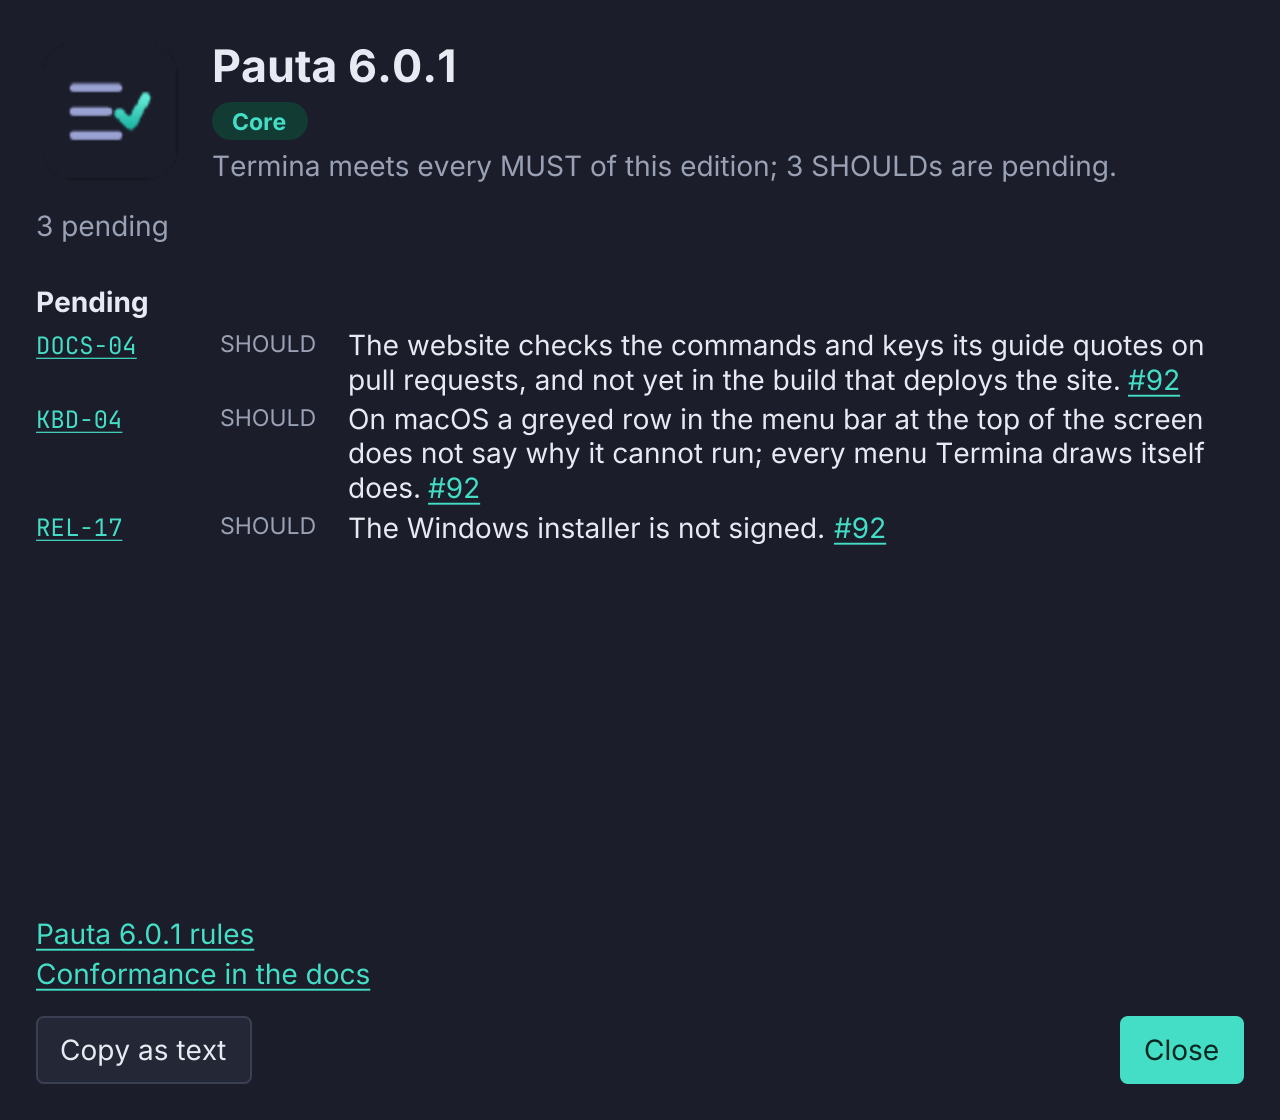
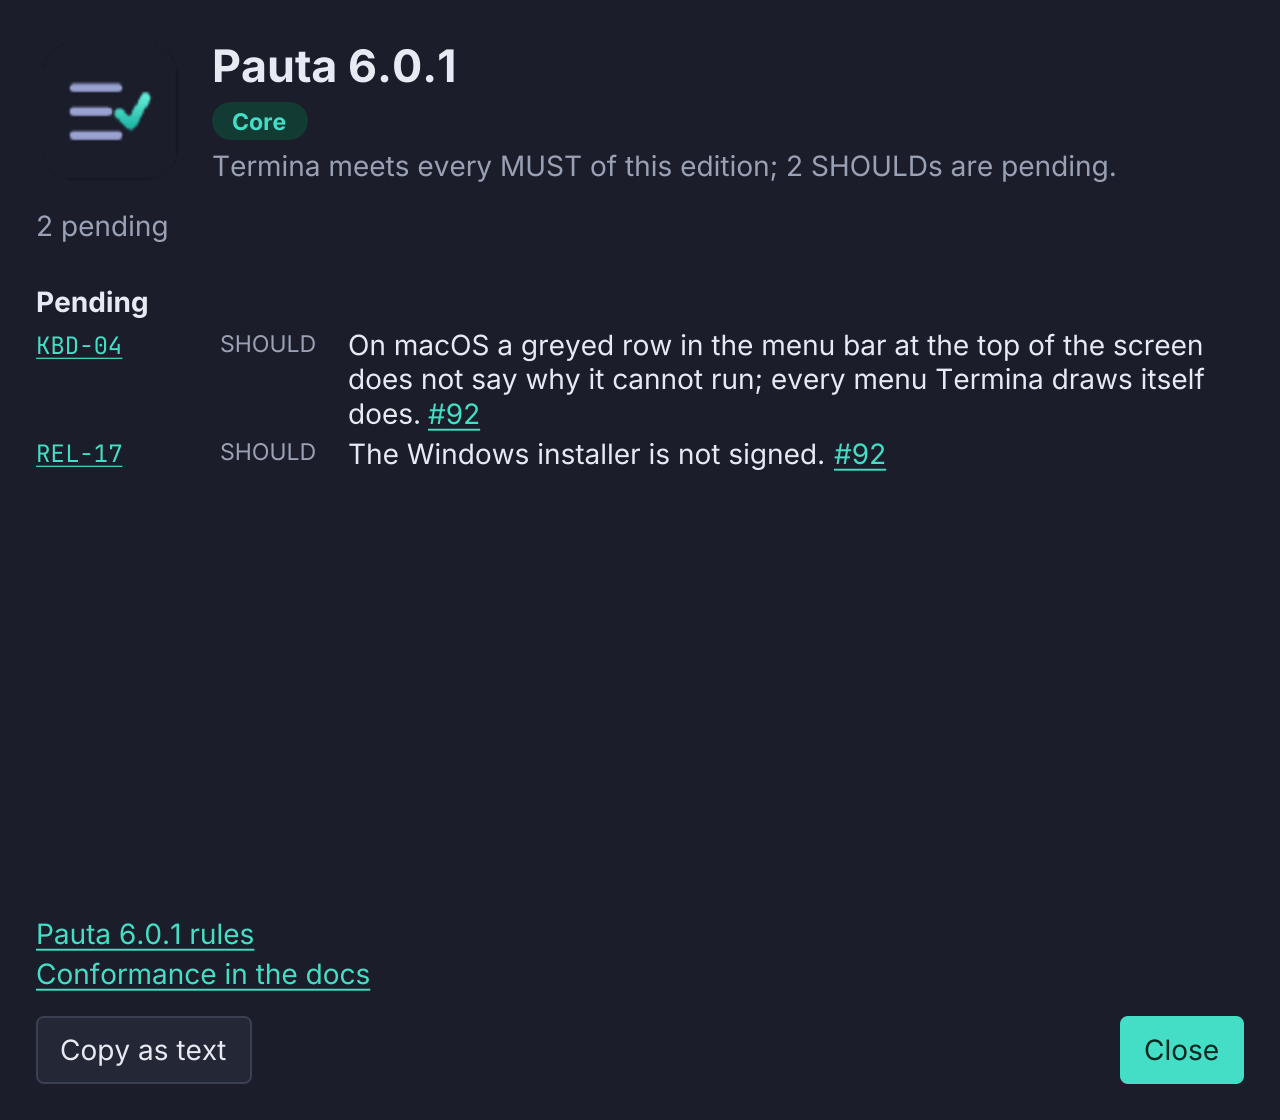
Conformance page regenerated: Core, two exceptions
pauta.md, its picture, whats-new.md, roadmap.md and the generated data,
regenerated from Termina's pauta-docs-04 branch as 0.15.0. DOCS-04 is met
since this site's build runs its docs check, so the page lists KBD-04 and
REL-17 where it listed three rules.

diff --git a/src/lib/commands.ts b/src/lib/commands.ts
@@ -1,5 +1,5 @@
 // AUTO-GENERATED by scripts/GenCommands.java — do not edit by hand.
-// Source: messages.properties and the key maps in the Termina repository, at pauta-site-live.
+// Source: messages.properties and the key maps in the Termina repository, at pauta-docs-04.
 // Re-run the script after a release, or after a command or a chord changes.
 
 // A chord is its keys in order, given separately for Linux and Windows (pc) and for macOS

diff --git a/src/lib/version.ts b/src/lib/version.ts
@@ -1,5 +1,5 @@
 // AUTO-GENERATED by scripts/GenCommands.java — do not edit by hand.
-// Source: Termina's pom.xml <version> at pauta-site-live, or the newest released CHANGELOG.md
+// Source: Termina's pom.xml <version> at pauta-docs-04, or the newest released CHANGELOG.md
 // section while the pom is on a -SNAPSHOT between releases; here given with --as, ahead of the release.
 
 export const version = "0.15.0";

diff --git a/src/content/docs/pauta.md b/src/content/docs/pauta.md
@@ -13,7 +13,7 @@ required, a **SHOULD** is expected unless there is a stated reason.
 
 Termina is built to **[Pauta 6.0.1](https://pauta-project.dev/6.0.1/)**.
 
-**Pauta conformance: Core.** Termina meets every MUST of this edition; 3 SHOULDs are pending.
+**Pauta conformance: Core.** Termina meets every MUST of this edition; 2 SHOULDs are pending.
 
 | Conformance | Means |
 |---|---|
@@ -29,10 +29,9 @@ and the conformance.
 
 ## Pending
 
-Rules Termina does not meet yet. Each one links the issue that tracks it. 3 rules: 0 MUST, 3 SHOULD.
+Rules Termina does not meet yet. Each one links the issue that tracks it. 2 rules: 0 MUST, 2 SHOULD.
 
 | Rule | Level | What is different | Link |
 |---|---|---|---|
-| <a href="https://pauta-project.dev/6.0.1/documentation/#docs-04" style="white-space: nowrap"><code>DOCS-04</code></a> | SHOULD | The website checks the commands and keys its guide quotes on pull requests, and not yet in the build that deploys the site. | [#92](https://github.com/adriandeleon/Termina/issues/92) |
 | <a href="https://pauta-project.dev/6.0.1/keyboard/#kbd-04" style="white-space: nowrap"><code>KBD-04</code></a> | SHOULD | On macOS a greyed row in the menu bar at the top of the screen does not say why it cannot run; every menu Termina draws itself does. | [#92](https://github.com/adriandeleon/Termina/issues/92) |
 | <a href="https://pauta-project.dev/6.0.1/release/#rel-17" style="white-space: nowrap"><code>REL-17</code></a> | SHOULD | The Windows installer is not signed. | [#92](https://github.com/adriandeleon/Termina/issues/92) |

diff --git a/src/content/docs/roadmap.md b/src/content/docs/roadmap.md
@@ -27,7 +27,6 @@ None: every MUST of the edition is met, which makes the conformance Core.
 
 ### SHOULD
 
-- [ ] **[DOCS-04](https://pauta-project.dev/6.0.1/documentation/#docs-04)** The website checks the commands and keys its guide quotes on pull requests, and not yet in the build that deploys the site.
 - [ ] **[KBD-04](https://pauta-project.dev/6.0.1/keyboard/#kbd-04)** On macOS a greyed row in the menu bar at the top of the screen does not say why it cannot run; every menu Termina draws itself does.
 - [ ] **[REL-17](https://pauta-project.dev/6.0.1/release/#rel-17)** The Windows installer is not signed.
 

diff --git a/src/content/docs/whats-new.md b/src/content/docs/whats-new.md
@@ -177,7 +177,7 @@ done.
 ### Changed
 
 - **Termina is built to Pauta 6.0.1 at Core conformance**: every MUST of the edition is met, and
-  three SHOULDs are pending. About and Help ▸ Pauta Conformance say "Built to Pauta 6.0.1" where
+  two SHOULDs are pending. About and Help ▸ Pauta Conformance say "Built to Pauta 6.0.1" where
   they said "Working toward". The last three MUSTs were the user guide on the website: its
   pictures of the real window, its Installing page and its conformance page.
 - **An imported colour scheme is stored as JSON.** A theme is `themes/<name>.json` in the settings
